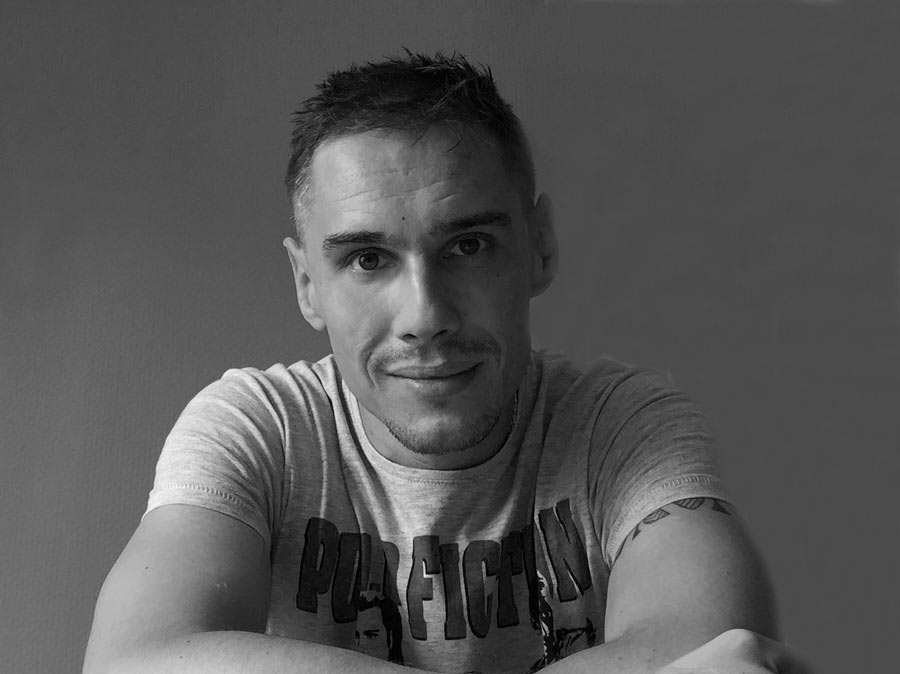
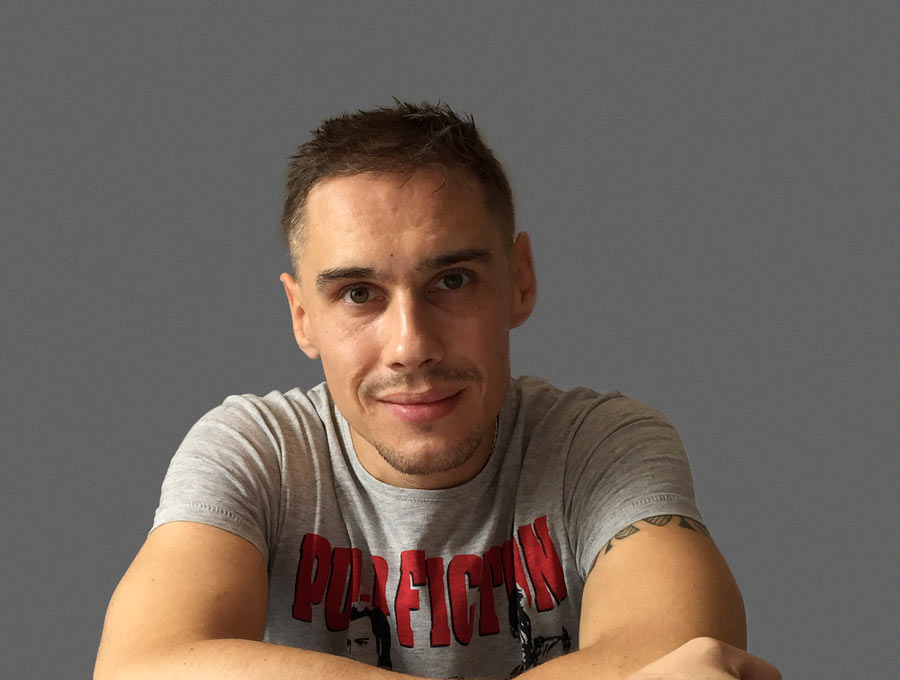
Animate About desc + change Paper & Header BG

diff --git a/src/about/components/AboutDesc.js b/src/about/components/AboutDesc.js
@@ -1,20 +1,96 @@
 import React from 'react';
+import { motion } from 'framer-motion';
 import AboutImage from '../../shared/images/about.jpg';
 
 const AboutDesc = () => {
+    const variantsH1 = {
+        initial: {
+            opacity: 0,
+            y: '-100vh',
+        },
+        in: {
+            opacity: 1,
+            y: 0,
+        },
+        out: {
+            opacity: 0,
+            y: '100vh',
+        },
+    };
+
+    const variantsP = {
+        initial: {
+            opacity: 0,
+            x: '-100vw',
+        },
+        in: {
+            opacity: 1,
+            x: 0,
+        },
+        out: {
+            opacity: 0,
+            x: '100vw',
+        },
+    };
+
+    const variantsImg = {
+        initial: {
+            opacity: 0,
+            x: '100vw',
+        },
+        in: {
+            opacity: 1,
+            x: 0,
+        },
+        out: {
+            opacity: 0,
+            x: '-100vw',
+        },
+    };
+
     return (
-        <section className='about__desc'>
-            <p>
-                L’informatique, incluant le développement aussi bien que la
-                découverte de nouveaux logiciels ou procédures, occupe une place
-                importante dans ma vie quotidienne et je pense que c’est un
-                élément capital dans le monde d’aujourd’hui qui évolue de façon
-                exponentielle et est régi par les nouvelles technologies. Le
-                métier de développeur évolue continuellement, en relation avec
-                les nouvelles technologies et les nouveaux outils.
-            </p>
-            <img src={AboutImage} alt='A propos' />
-        </section>
+        <>
+            <motion.h1
+                className='overlay-title'
+                initial='initial'
+                animate='in'
+                exit='out'
+                variants={variantsH1}
+                transition={{ duration: 0.5, delay: 0.5 }}
+                id='about'
+            >
+                A Propos
+            </motion.h1>
+            <section className='about__desc'>
+                <motion.p
+                    initial='initial'
+                    animate='in'
+                    exit='out'
+                    variants={variantsP}
+                    transition={{ duration: 0.5, delay: 0.8 }}
+                    id='about'
+                    className='about'
+                >
+                    L’informatique, incluant le développement aussi bien que la
+                    découverte de nouveaux logiciels ou procédures, occupe une
+                    place importante dans ma vie quotidienne et je pense que
+                    c’est un élément capital dans le monde d’aujourd’hui qui
+                    évolue de façon exponentielle et est régi par les nouvelles
+                    technologies. Le métier de développeur évolue
+                    continuellement, en relation avec les nouvelles technologies
+                    et les nouveaux outils.
+                </motion.p>
+                <motion.img
+                    src={AboutImage}
+                    alt='A propos'
+                    initial='initial'
+                    animate='in'
+                    exit='out'
+                    variants={variantsImg}
+                    transition={{ duration: 0.5, delay: 1.1 }}
+                />
+            </section>
+        </>
     );
 };
 

diff --git a/src/shared/styles/variables.scss b/src/shared/styles/variables.scss
@@ -2,7 +2,7 @@
 @import url('https://fonts.googleapis.com/css2?family=Oswald:wght@200;400;600&display=swap');
 
 .main-wrapper.light {
-    --header-bg: #fff;
+    --header-bg: #d7e7fb;
     --title-bg: rgba(0, 0, 0, 0.1);
     --tip-title-bg: #bbb;
     --tip-card-overlay: rgba(0, 0, 0, 0.3);
@@ -10,7 +10,7 @@
 }
 
 .main-wrapper.dark {
-    --header-bg: #151515;
+    --header-bg: #1e242b;
     --title-bg: rgba(255, 255, 255, 0.1);
     --tip-title-bg: #fff;
     --tip-card-overlay: rgba(255, 255, 255, 0.3);

diff --git a/src/App.js b/src/App.js
@@ -26,7 +26,7 @@ const darkTheme = createMuiTheme({
         primary: blue,
         secondary: blue,
         background: {
-            paper: '#272727',
+            paper: '#2f3945',
         },
         text: {
             primary: '#e2e2e2',
@@ -38,7 +38,7 @@ const lightTheme = createMuiTheme({
     palette: {
         type: 'light',
         background: {
-            paper: '#eaeaea',
+            paper: '#fafcff',
         },
         text: {
             primary: 'rgba(0, 0, 0, 0.87);',

diff --git a/src/about/About.scss b/src/about/About.scss
@@ -18,6 +18,12 @@
         grid-gap: 2rem;
         align-items: center;
 
+        p {
+            position: relative;
+            left: 0;
+            top: 0;
+        }
+
         img {
             justify-self: center;
             border-radius: 59% 41% 70% 30% / 34% 64% 36% 66%;

diff --git a/src/about/About.js b/src/about/About.js
@@ -18,7 +18,6 @@ const About = ({ variant, transition }) => {
             id='about'
             className='about'
         >
-            <h1 className='overlay-title'>A Propos</h1>
             <AboutDesc />
             <AboutCompetences />
             <AboutExp />

diff --git a/src/shared/styles/global.scss b/src/shared/styles/global.scss
@@ -28,6 +28,8 @@ h5,
 h6 {
     margin: 3rem 0;
     font-family: $titlefont;
+    position: relative;
+    top: 0;
 }
 
 h1 {
